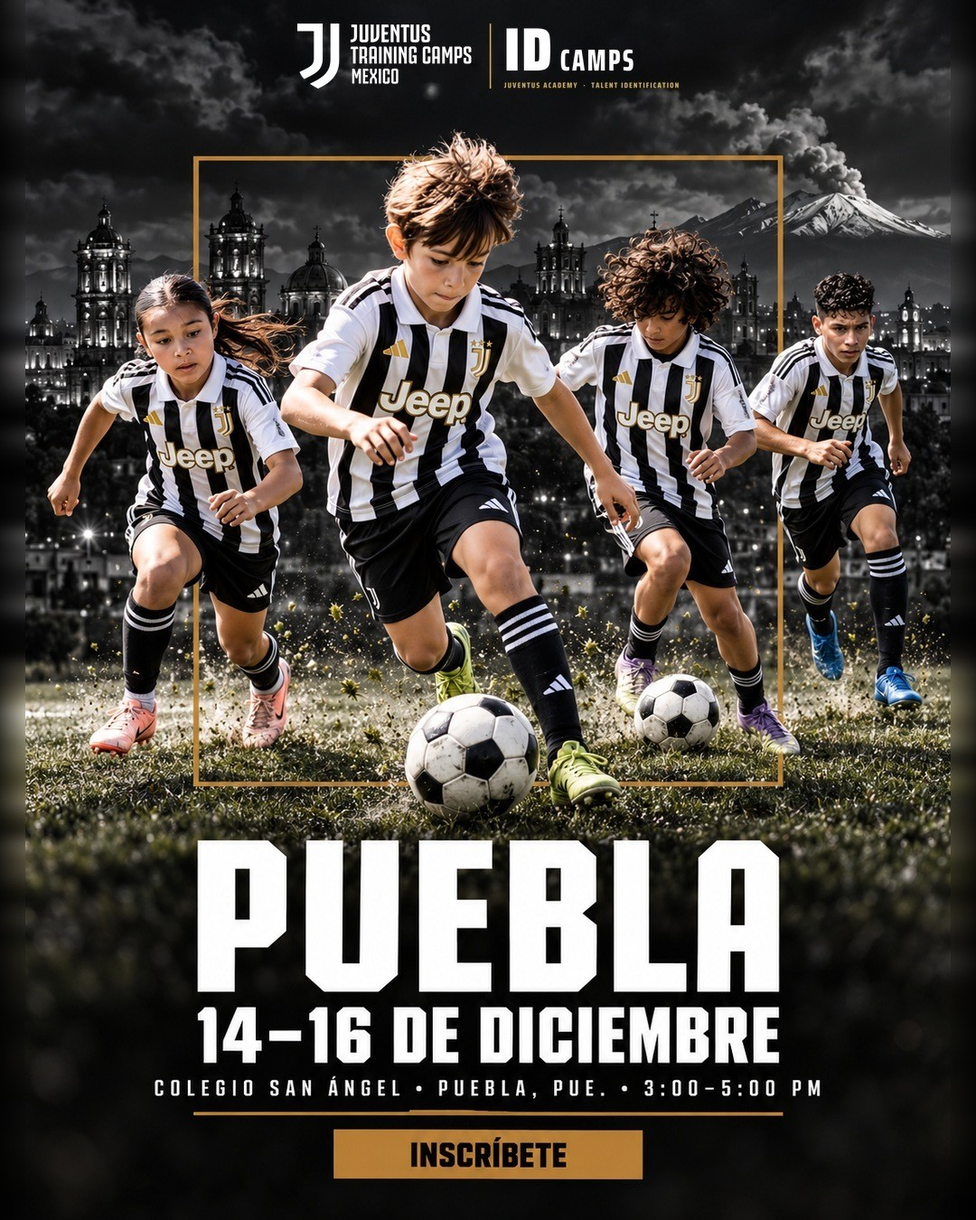
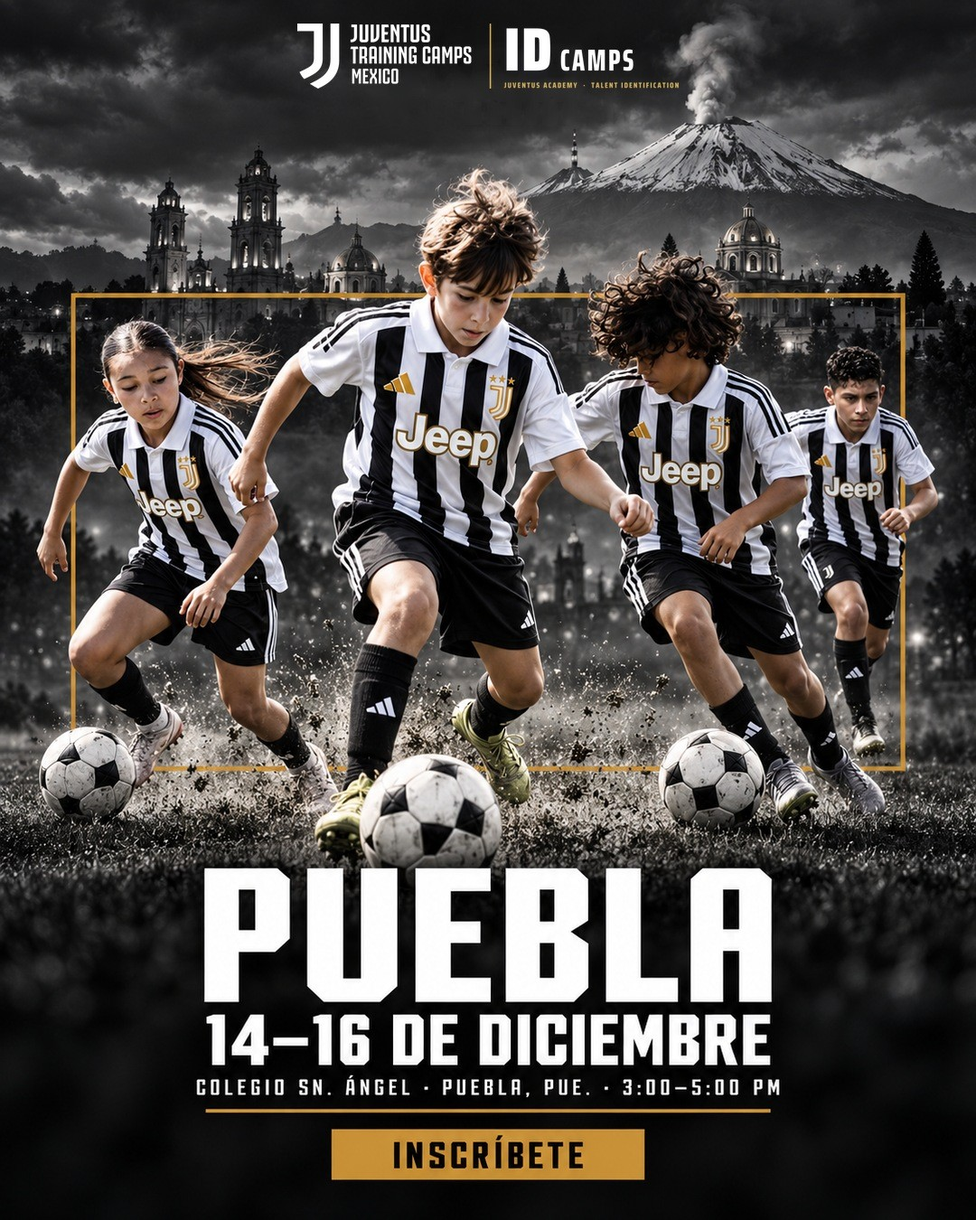
Pósters 1 de Puebla y Bayamón con la camiseta 2026-27; sede Colegio Sn. Ángel en piezas 3, 5 y 6 (notas de Alessandro 28-10)

diff --git a/index.html b/index.html
@@ -85,7 +85,7 @@ footer{margin-top:40px;color:var(--muted);font-size:14px;border-top:1px solid va
 <p class="lead">Puebla es el ID Camp nuevo de México (14 al 16 de diciembre) y Bayamón ya está listo para encenderse. Cada anuncio se muestra con su pieza y su texto, tal como se montaría en Meta. Los textos se pueden corregir aquí mismo y cada anuncio se aprueba con un clic.</p>
 <p class="como"><b>Piezas:</b> el mismo esquema de las demás sedes: Hero, video de Jesús, Coaches, Un día en el ID Camp, Así se vivió y Juventus Way. Niños en acción con la camiseta 2026-27. En Puebla se usan fotos reales de los camps de Juventus en México, con el volcán Popocatépetl y las cúpulas de Puebla de fondo; en Bayamón, fotos reales de Puerto Rico.</p>
 <p class="como"><b>Segmentación:</b> 25 millas alrededor de cada sede y padres de 30 a 55 años, como en las demás sedes. El detalle y el presupuesto están en la pestaña de cada sede.</p>
-<div class="confirmar"><b>Por confirmar en Puebla:</b> el nombre de la sede. En el sistema de inscripción aparece como "Colegio SN Angel"; en las piezas y los textos se puso <b>Colegio San Ángel</b>. Si el nombre correcto es otro, basta con dejar una nota en el anuncio 1 de Puebla.</div>
+<div class="confirmar"><b>Sede de Puebla:</b> <b>Colegio Sn. Ángel</b>, como lo corrigió Alessandro en los textos el 28-10. Ya está cambiado también en las piezas.</div>
 <div class="resumen">
   <div><b>Listos</b>6 anuncios por sede con su texto: video de Jesús, Hero, Coaches, Un día, Así se vivió y Juventus Way.</div>
   <div><b>Video</b>El video de Jesús de cada sede ya está editado (anuncio 2): se puede ver aquí mismo.</div>
@@ -94,11 +94,11 @@ footer{margin-top:40px;color:var(--muted);font-size:14px;border-top:1px solid va
 <p class="como"><b>Cómo aprobar:</b> si el texto está bien, botón <b>Aprobar</b>. Para corregir el texto o el título se escribe directamente sobre ellos; el botón pasa a <b>Aprobar con texto corregido</b> y se guarda la versión nueva. También se puede dejar una nota sin aprobar. Todo queda registrado.</p>
 <div class="tabs" role="group" aria-label="Sede"><button type="button" data-s="pue" aria-pressed="true">Puebla</button><button type="button" data-s="bay" aria-pressed="false">Bayamón</button></div>
 <section id="pue" class="sede" >
-  <div class="ficha"><h2>Puebla</h2><p>14–16 de diciembre · 3:00 – 5:00 PM · Colegio San Ángel, Puebla, Pue. · Niños y niñas de 6 a 17 años</p><p class="plan">Todo en español de México, con el mismo modelo que Monterrey.</p>
+  <div class="ficha"><h2>Puebla</h2><p>14–16 de diciembre · 3:00 – 5:00 PM · Colegio Sn. Ángel, Puebla, Pue. · Niños y niñas de 6 a 17 años</p><p class="plan">Todo en español de México, con el mismo modelo que Monterrey.</p>
   </div>
   <div class="segm"><b class="segm-t">Cómo se configura en Meta (igual que las demás sedes)</b>
     <dl>
-      <dt>Ubicación</dt><dd>Radio de <b>25 millas</b> alrededor del Colegio San Ángel (Tlaxcalancingo, San Andrés Cholula) (<a href="https://www.google.com/maps?q=Av.+Orión+Sur+1549,+Tlaxcalancingo,+Puebla" target="_blank" rel="noopener">ver el punto en el mapa</a>). Cubre la ciudad de Puebla, San Andrés Cholula y San Pedro Cholula.</dd>
+      <dt>Ubicación</dt><dd>Radio de <b>25 millas</b> alrededor del Colegio Sn. Ángel (Tlaxcalancingo, San Andrés Cholula) (<a href="https://www.google.com/maps?q=Av.+Orión+Sur+1549,+Tlaxcalancingo,+Puebla" target="_blank" rel="noopener">ver el punto en el mapa</a>). Cubre la ciudad de Puebla, San Andrés Cholula y San Pedro Cholula.</dd>
       <dt>A quién</dt><dd>Personas que viven en esa zona o que estuvieron allí hace poco.</dd>
       <dt>Edad</dt><dd>Padres de <b>30 a 55 años</b> como público sugerido. Meta puede mostrarlo a otras edades si encuentra familias interesadas (Advantage+), igual que en las otras sedes.</dd>
       <dt>Dónde se ve</dt><dd>Solo Facebook e Instagram: feed, historias y reels.</dd>
@@ -114,10 +114,10 @@ footer{margin-top:40px;color:var(--muted);font-size:14px;border-top:1px solid va
   <article class="ad" data-id="PUE_1">
   <header><span class="num">1</span><h3>HERO-POSTER (Imagen)</h3><span class="idi">Español</span><span class="estado" data-estado>Lista</span></header>
   <div class="cuerpo">
-    <div class="media"><img src="assets/PUE_1.jpg?v=1793211399" data-grande="assets/PUE_1_g.jpg?v=1793211399" class="ampliable" alt="HERO-POSTER (Imagen) · Puebla" title="Clic para verla en grande"></div>
+    <div class="media"><img src="assets/PUE_1.jpg?v=1793219997" data-grande="assets/PUE_1_g.jpg?v=1793219997" class="ampliable" alt="HERO-POSTER (Imagen) · Puebla" title="Clic para verla en grande"></div>
     <div class="copy">
       <div class="lbl">Texto principal <span class="hint">· se puede editar</span></div>
-      <div class="tp ed" contenteditable="true" spellcheck="true" data-campo="texto">ATENCIÓN PUEBLA 👉 El Juventus ID Camp llega a Puebla el 14, 15 y 16 de diciembre.<br><br>Son tres días entrenando con coaches de Juventus Academy que vienen desde Italia, con la misma metodología con la que Juventus forma a los jugadores de su academia en Italia: trabajo físico, técnico y táctico, adaptado a cada edad.<br><br>📅 14, 15 y 16 de diciembre · 3:00 – 5:00 PM<br>📍 Colegio San Ángel, Puebla, Pue.<br>⚽ Niños y niñas de 6 a 17 años<br><br>Toca Registrarte e inscríbelo en línea 👇</div>
+      <div class="tp ed" contenteditable="true" spellcheck="true" data-campo="texto">ATENCIÓN PUEBLA 👉 El Juventus ID Camp llega a Puebla el 14, 15 y 16 de diciembre.<br><br>Son tres días entrenando con coaches de Juventus Academy que vienen desde Italia, con la misma metodología con la que Juventus forma a los jugadores de su academia en Italia: trabajo físico, técnico y táctico, adaptado a cada edad.<br><br>📅 14, 15 y 16 de diciembre · 3:00 – 5:00 PM<br>📍 Colegio Sn. Ángel, Puebla, Pue.<br>⚽ Niños y niñas de 6 a 17 años<br><br>Toca Registrarte e inscríbelo en línea 👇</div>
       <div class="lbl">Título <span class="hint">· se puede editar</span></div>
       <div class="tit ed" contenteditable="true" spellcheck="true" data-campo="titulo">Juventus ID Camp · Puebla, 14–16 dic</div>
       <div class="lbl">Botón</div><p class="btn">Registrarte (Sign Up)</p>
@@ -136,7 +136,7 @@ footer{margin-top:40px;color:var(--muted);font-size:14px;border-top:1px solid va
     <div class="media"><video controls playsinline preload="none" poster="assets/PUE_2_poster.jpg?v=1793210265" style="width:100%;max-width:300px;border-radius:8px;display:block"><source src="assets/PUE_2_video.mp4?v=1793210265" type="video/mp4"></video></div>
     <div class="copy">
       <div class="lbl">Texto principal <span class="hint">· se puede editar</span></div>
-      <div class="tp ed" contenteditable="true" spellcheck="true" data-campo="texto">Puebla, Juventus Academy regresa a México 🤍🖤<br><br>El 14, 15 y 16 de diciembre, tu hijo o hija puede entrenar con la metodología de uno de los clubes más importantes del mundo y de la historia, con coaches de Juventus Academy desde Italia.<br><br>📅 14, 15 y 16 de diciembre · 3:00 – 5:00 PM<br>📍 Colegio San Ángel, Puebla, Pue.<br>⚽ Niños y niñas de 6 a 17 años<br><br>Toca Registrarte e inscríbelo en línea 👇<br>Fino alla fine, forza Juve! ⚪⚫</div>
+      <div class="tp ed" contenteditable="true" spellcheck="true" data-campo="texto">Puebla, Juventus Academy regresa a México 🤍🖤<br><br>El 14, 15 y 16 de diciembre, tu hijo o hija puede entrenar con la metodología de uno de los clubes más importantes del mundo y de la historia, con coaches de Juventus Academy desde Italia.<br><br>📅 14, 15 y 16 de diciembre · 3:00 – 5:00 PM<br>📍 Colegio Sn. Ángel, Puebla, Pue.<br>⚽ Niños y niñas de 6 a 17 años<br><br>Toca Registrarte e inscríbelo en línea 👇<br>Fino alla fine, forza Juve! ⚪⚫</div>
       <div class="lbl">Título <span class="hint">· se puede editar</span></div>
       <div class="tit ed" contenteditable="true" spellcheck="true" data-campo="titulo">Juventus regresa a Puebla · 14–16 dic</div>
       <div class="lbl">Botón</div><p class="btn">Registrarte (Sign Up)</p>
@@ -152,10 +152,10 @@ footer{margin-top:40px;color:var(--muted);font-size:14px;border-top:1px solid va
 </article><article class="ad" data-id="PUE_3">
   <header><span class="num">3</span><h3>STATIC COACHES (Imagen)</h3><span class="idi">Español</span><span class="estado" data-estado>Lista</span></header>
   <div class="cuerpo">
-    <div class="media"><img src="assets/PUE_3.jpg?v=1793211409" data-grande="assets/PUE_3_g.jpg?v=1793211409" class="ampliable" alt="STATIC COACHES (Imagen) · Puebla" title="Clic para verla en grande"></div>
+    <div class="media"><img src="assets/PUE_3.jpg?v=1793219881" data-grande="assets/PUE_3_g.jpg?v=1793219881" class="ampliable" alt="STATIC COACHES (Imagen) · Puebla" title="Clic para verla en grande"></div>
     <div class="copy">
       <div class="lbl">Texto principal <span class="hint">· se puede editar</span></div>
-      <div class="tp ed" contenteditable="true" spellcheck="true" data-campo="texto">Los coaches de Juventus Academy viajan desde Italia para entrenar a tu hijo o hija, sin salir de Puebla. 🇮🇹⚽<br><br>Durante tres días, cada sesión sigue la metodología Juventus y cada jugador recibe atención individual de los coaches.<br><br>📅 14, 15 y 16 de diciembre · 3:00 – 5:00 PM<br>📍 Colegio San Ángel, Puebla, Pue.<br>⚽ Niños y niñas de 6 a 17 años<br><br>Toca Registrarte e inscríbelo en línea 👇</div>
+      <div class="tp ed" contenteditable="true" spellcheck="true" data-campo="texto">Los coaches de Juventus Academy viajan desde Italia para entrenar a tu hijo o hija, sin salir de Puebla. 🇮🇹⚽<br><br>Durante tres días, cada sesión sigue la metodología Juventus y cada jugador recibe atención individual de los coaches.<br><br>📅 14, 15 y 16 de diciembre · 3:00 – 5:00 PM<br>📍 Colegio Sn. Ángel, Puebla, Pue.<br>⚽ Niños y niñas de 6 a 17 años<br><br>Toca Registrarte e inscríbelo en línea 👇</div>
       <div class="lbl">Título <span class="hint">· se puede editar</span></div>
       <div class="tit ed" contenteditable="true" spellcheck="true" data-campo="titulo">Coaches desde Italia · 14–16 dic</div>
       <div class="lbl">Botón</div><p class="btn">Registrarte (Sign Up)</p>
@@ -174,7 +174,7 @@ footer{margin-top:40px;color:var(--muted);font-size:14px;border-top:1px solid va
     <div class="media"><img src="assets/PUE_4.jpg?v=1793211464" data-grande="assets/PUE_4_g.jpg?v=1793211464" class="ampliable" alt="STATIC UN DÍA EN EL ID CAMP (Imagen) · Puebla" title="Clic para verla en grande"></div>
     <div class="copy">
       <div class="lbl">Texto principal <span class="hint">· se puede editar</span></div>
-      <div class="tp ed" contenteditable="true" spellcheck="true" data-campo="texto">Así es un día en el Juventus ID Camp ⚽<br><br>Calentamiento con coaches de Juventus Academy que vienen desde Italia, trabajo técnico, juego y cierre. Cada sesión sigue la metodología Juventus, en grupos pequeños por edad, y cada jugador recibe atención individual de los coaches.<br><br>📅 14, 15 y 16 de diciembre · 3:00 – 5:00 PM<br>📍 Colegio San Ángel, Puebla, Pue.<br>⚽ Niños y niñas de 6 a 17 años<br><br>No hace falta prueba previa. Toca Registrarte e inscríbelo en línea 👇</div>
+      <div class="tp ed" contenteditable="true" spellcheck="true" data-campo="texto">Así es un día en el Juventus ID Camp ⚽<br><br>Calentamiento con coaches de Juventus Academy que vienen desde Italia, trabajo técnico, juego y cierre. Cada sesión sigue la metodología Juventus, en grupos pequeños por edad, y cada jugador recibe atención individual de los coaches.<br><br>📅 14, 15 y 16 de diciembre · 3:00 – 5:00 PM<br>📍 Colegio Sn. Ángel, Puebla, Pue.<br>⚽ Niños y niñas de 6 a 17 años<br><br>No hace falta prueba previa. Toca Registrarte e inscríbelo en línea 👇</div>
       <div class="lbl">Título <span class="hint">· se puede editar</span></div>
       <div class="tit ed" contenteditable="true" spellcheck="true" data-campo="titulo">Un día en el ID Camp · 14–16 dic</div>
       <div class="lbl">Botón</div><p class="btn">Registrarte (Sign Up)</p>
@@ -190,10 +190,10 @@ footer{margin-top:40px;color:var(--muted);font-size:14px;border-top:1px solid va
 </article><article class="ad" data-id="PUE_5">
   <header><span class="num">5</span><h3>STATIC ASÍ SE VIVIÓ (Imagen)</h3><span class="idi">Español</span><span class="estado" data-estado>Lista</span></header>
   <div class="cuerpo">
-    <div class="media"><img src="assets/PUE_5.jpg?v=1793211409" data-grande="assets/PUE_5_g.jpg?v=1793211409" class="ampliable" alt="STATIC ASÍ SE VIVIÓ (Imagen) · Puebla" title="Clic para verla en grande"></div>
+    <div class="media"><img src="assets/PUE_5.jpg?v=1793219881" data-grande="assets/PUE_5_g.jpg?v=1793219881" class="ampliable" alt="STATIC ASÍ SE VIVIÓ (Imagen) · Puebla" title="Clic para verla en grande"></div>
     <div class="copy">
       <div class="lbl">Texto principal <span class="hint">· se puede editar</span></div>
-      <div class="tp ed" contenteditable="true" spellcheck="true" data-campo="texto">Así se vivió Juventus en México este verano 🇮🇹⚽<br><br>Niños y niñas entrenando con coaches de Juventus y la metodología del club. En diciembre llega el Juventus ID Camp a Puebla, y le toca a tu hijo o hija.<br><br>📅 14, 15 y 16 de diciembre · 3:00 – 5:00 PM<br>📍 Colegio San Ángel, Puebla, Pue.<br>⚽ Niños y niñas de 6 a 17 años<br><br>Toca Registrarte e inscríbelo en línea 👇</div>
+      <div class="tp ed" contenteditable="true" spellcheck="true" data-campo="texto">Así se vivió Juventus en México este verano 🇮🇹⚽<br><br>Niños y niñas entrenando con coaches de Juventus y la metodología del club. En diciembre llega el Juventus ID Camp a Puebla, y le toca a tu hijo o hija.<br><br>📅 14, 15 y 16 de diciembre · 3:00 – 5:00 PM<br>📍 Colegio Sn. Ángel, Puebla, Pue.<br>⚽ Niños y niñas de 6 a 17 años<br><br>Toca Registrarte e inscríbelo en línea 👇</div>
       <div class="lbl">Título <span class="hint">· se puede editar</span></div>
       <div class="tit ed" contenteditable="true" spellcheck="true" data-campo="titulo">Llega el ID Camp a Puebla · 14–16 dic</div>
       <div class="lbl">Botón</div><p class="btn">Registrarte (Sign Up)</p>
@@ -209,10 +209,10 @@ footer{margin-top:40px;color:var(--muted);font-size:14px;border-top:1px solid va
 </article><article class="ad" data-id="PUE_6">
   <header><span class="num">6</span><h3>STATIC JUVENTUS WAY (Imagen)</h3><span class="idi">Español</span><span class="estado" data-estado>Lista</span></header>
   <div class="cuerpo">
-    <div class="media"><img src="assets/PUE_6.jpg?v=1793211409" data-grande="assets/PUE_6_g.jpg?v=1793211409" class="ampliable" alt="STATIC JUVENTUS WAY (Imagen) · Puebla" title="Clic para verla en grande"></div>
+    <div class="media"><img src="assets/PUE_6.jpg?v=1793219881" data-grande="assets/PUE_6_g.jpg?v=1793219881" class="ampliable" alt="STATIC JUVENTUS WAY (Imagen) · Puebla" title="Clic para verla en grande"></div>
     <div class="copy">
       <div class="lbl">Texto principal <span class="hint">· se puede editar</span></div>
-      <div class="tp ed" contenteditable="true" spellcheck="true" data-campo="texto">Físico. Técnico. Táctico. ⚪⚫<br><br>Así se entrena al estilo Juventus, y este diciembre tu hijo o hija lo vive en Puebla, con coaches de Juventus Academy desde Italia. Tres días, las tres partes en cada sesión, adaptadas a cada edad.<br><br>📅 14, 15 y 16 de diciembre · 3:00 – 5:00 PM<br>📍 Colegio San Ángel, Puebla, Pue.<br>⚽ Niños y niñas de 6 a 17 años<br><br>Toca Registrarte e inscríbelo en línea 👇</div>
+      <div class="tp ed" contenteditable="true" spellcheck="true" data-campo="texto">Físico. Técnico. Táctico. ⚪⚫<br><br>Así se entrena al estilo Juventus, y este diciembre tu hijo o hija lo vive en Puebla, con coaches de Juventus Academy desde Italia. Tres días, las tres partes en cada sesión, adaptadas a cada edad.<br><br>📅 14, 15 y 16 de diciembre · 3:00 – 5:00 PM<br>📍 Colegio Sn. Ángel, Puebla, Pue.<br>⚽ Niños y niñas de 6 a 17 años<br><br>Toca Registrarte e inscríbelo en línea 👇</div>
       <div class="lbl">Título <span class="hint">· se puede editar</span></div>
       <div class="tit ed" contenteditable="true" spellcheck="true" data-campo="titulo">Estilo Juventus · Puebla, 14–16 dic</div>
       <div class="lbl">Botón</div><p class="btn">Registrarte (Sign Up)</p>
@@ -247,7 +247,7 @@ footer{margin-top:40px;color:var(--muted);font-size:14px;border-top:1px solid va
   <article class="ad" data-id="BAY_1">
   <header><span class="num">1</span><h3>HERO-POSTER (Imagen)</h3><span class="idi">Español</span><span class="estado" data-estado>Lista</span></header>
   <div class="cuerpo">
-    <div class="media"><img src="assets/BAY_1.jpg?v=1793211501" data-grande="assets/BAY_1_g.jpg?v=1793211501" class="ampliable" alt="HERO-POSTER (Imagen) · Bayamón" title="Clic para verla en grande"></div>
+    <div class="media"><img src="assets/BAY_1.jpg?v=1793220138" data-grande="assets/BAY_1_g.jpg?v=1793220138" class="ampliable" alt="HERO-POSTER (Imagen) · Bayamón" title="Clic para verla en grande"></div>
     <div class="copy">
       <div class="lbl">Texto principal <span class="hint">· se puede editar</span></div>
       <div class="tp ed" contenteditable="true" spellcheck="true" data-campo="texto">ATENCIÓN BAYAMÓN 👉 El Juventus ID Camp llega a Bayamón el 21 y 22 de diciembre.<br><br>Son dos días entrenando con coaches de Juventus Academy que vienen desde Italia, con la misma metodología con la que Juventus forma a los jugadores de su academia en Italia: trabajo físico, técnico y táctico, adaptado a cada edad.<br><br>📅 21 y 22 de diciembre · 5:00 PM – 8:30 PM<br>📍 Bayamón Soccer Complex, Bayamón, PR<br>⚽ Niños y niñas de 6 a 16 años<br><br>Toca Registrarte e inscríbelo en línea 👇</div>
@@ -363,7 +363,7 @@ footer{margin-top:40px;color:var(--muted);font-size:14px;border-top:1px solid va
 </div>
 <script>
 const CFG={"accion": "https://docs.google.com/forms/d/e/1FAIpQLSeGUY8Cv9Ea08X9HkdznY9pzVoUc4Gj-GdymsVTFP86wbE5sw/formResponse", "entry": {"pieza": 333677581, "cuenta": 724853821, "autor": 299801437, "comentario": 1175231019, "copy_corregido": 1649408514, "copy_original": 1637675582, "enviado": 909195940, "tipo": 1605073129, "zona": 1831673234, "fila": 1327618412}, "cuenta": "idcamps_puebay"};
-const ORIG={"PUE_1": {"texto": "ATENCIÓN PUEBLA 👉 El Juventus ID Camp llega a Puebla el 14, 15 y 16 de diciembre.\n\nSon tres días entrenando con coaches de Juventus Academy que vienen desde Italia, con la misma metodología con la que Juventus forma a los jugadores de su academia en Italia: trabajo físico, técnico y táctico, adaptado a cada edad.\n\n📅 14, 15 y 16 de diciembre · 3:00 – 5:00 PM\n📍 Colegio San Ángel, Puebla, Pue.\n⚽ Niños y niñas de 6 a 17 años\n\nToca Registrarte e inscríbelo en línea 👇", "titulo": "Juventus ID Camp · Puebla, 14–16 dic", "nombre": "HERO-POSTER (Imagen)"}, "PUE_2": {"texto": "Puebla, Juventus Academy regresa a México 🤍🖤\n\nEl 14, 15 y 16 de diciembre, tu hijo o hija puede entrenar con la metodología de uno de los clubes más importantes del mundo y de la historia, con coaches de Juventus Academy desde Italia.\n\n📅 14, 15 y 16 de diciembre · 3:00 – 5:00 PM\n📍 Colegio San Ángel, Puebla, Pue.\n⚽ Niños y niñas de 6 a 17 años\n\nToca Registrarte e inscríbelo en línea 👇\nFino alla fine, forza Juve! ⚪⚫", "titulo": "Juventus regresa a Puebla · 14–16 dic", "nombre": "VIDEO JESÚS (Video)"}, "PUE_3": {"texto": "Los coaches de Juventus Academy viajan desde Italia para entrenar a tu hijo o hija, sin salir de Puebla. 🇮🇹⚽\n\nDurante tres días, cada sesión sigue la metodología Juventus y cada jugador recibe atención individual de los coaches.\n\n📅 14, 15 y 16 de diciembre · 3:00 – 5:00 PM\n📍 Colegio San Ángel, Puebla, Pue.\n⚽ Niños y niñas de 6 a 17 años\n\nToca Registrarte e inscríbelo en línea 👇", "titulo": "Coaches desde Italia · 14–16 dic", "nombre": "STATIC COACHES (Imagen)"}, "PUE_4": {"texto": "Así es un día en el Juventus ID Camp ⚽\n\nCalentamiento con coaches de Juventus Academy que vienen desde Italia, trabajo técnico, juego y cierre. Cada sesión sigue la metodología Juventus, en grupos pequeños por edad, y cada jugador recibe atención individual de los coaches.\n\n📅 14, 15 y 16 de diciembre · 3:00 – 5:00 PM\n📍 Colegio San Ángel, Puebla, Pue.\n⚽ Niños y niñas de 6 a 17 años\n\nNo hace falta prueba previa. Toca Registrarte e inscríbelo en línea 👇", "titulo": "Un día en el ID Camp · 14–16 dic", "nombre": "STATIC UN DÍA EN EL ID CAMP (Imagen)"}, "PUE_5": {"texto": "Así se vivió Juventus en México este verano 🇮🇹⚽\n\nNiños y niñas entrenando con coaches de Juventus y la metodología del club. En diciembre llega el Juventus ID Camp a Puebla, y le toca a tu hijo o hija.\n\n📅 14, 15 y 16 de diciembre · 3:00 – 5:00 PM\n📍 Colegio San Ángel, Puebla, Pue.\n⚽ Niños y niñas de 6 a 17 años\n\nToca Registrarte e inscríbelo en línea 👇", "titulo": "Llega el ID Camp a Puebla · 14–16 dic", "nombre": "STATIC ASÍ SE VIVIÓ (Imagen)"}, "PUE_6": {"texto": "Físico. Técnico. Táctico. ⚪⚫\n\nAsí se entrena al estilo Juventus, y este diciembre tu hijo o hija lo vive en Puebla, con coaches de Juventus Academy desde Italia. Tres días, las tres partes en cada sesión, adaptadas a cada edad.\n\n📅 14, 15 y 16 de diciembre · 3:00 – 5:00 PM\n📍 Colegio San Ángel, Puebla, Pue.\n⚽ Niños y niñas de 6 a 17 años\n\nToca Registrarte e inscríbelo en línea 👇", "titulo": "Estilo Juventus · Puebla, 14–16 dic", "nombre": "STATIC JUVENTUS WAY (Imagen)"}, "BAY_1": {"texto": "ATENCIÓN BAYAMÓN 👉 El Juventus ID Camp llega a Bayamón el 21 y 22 de diciembre.\n\nSon dos días entrenando con coaches de Juventus Academy que vienen desde Italia, con la misma metodología con la que Juventus forma a los jugadores de su academia en Italia: trabajo físico, técnico y táctico, adaptado a cada edad.\n\n📅 21 y 22 de diciembre · 5:00 PM – 8:30 PM\n📍 Bayamón Soccer Complex, Bayamón, PR\n⚽ Niños y niñas de 6 a 16 años\n\nToca Registrarte e inscríbelo en línea 👇", "titulo": "Juventus ID Camp · Bayamón, 21–22 dic", "nombre": "HERO-POSTER (Imagen)"}, "BAY_2": {"texto": "Bayamón, Juventus regresa a Puerto Rico 🤍🖤\n\nEl 21 y 22 de diciembre, Juventus Academy realiza un ID Camp en Bayamón: dos días para entrenar con coaches de Juventus Academy desde Italia, con la historia, el legado y el compromiso que hacen diferente a Juventus, dentro y fuera del campo.\n\n📅 21 y 22 de diciembre · 5:00 PM – 8:30 PM\n📍 Bayamón Soccer Complex, Bayamón, PR\n⚽ Niños y niñas de 6 a 16 años\n\nToca Registrarte e inscríbelo en línea 👇\nFino alla fine, forza Juve! ⚪⚫", "titulo": "Juventus regresa a Puerto Rico · 21–22 dic", "nombre": "VIDEO JESÚS (Video)"}, "BAY_3": {"texto": "Juventus Academy coaches are flying in from Italy to train your player, without leaving Bayamón. 🇮🇹⚽\n\nFor two days, every session follows the Juventus methodology, and every player gets individual attention from the coaches.\n\n📅 December 21–22 · 5:00 PM – 8:30 PM\n📍 Bayamón Soccer Complex, Bayamón, PR\n⚽ Boys and girls, ages 6–16\n\nTap Sign Up to register your player 👇", "titulo": "Coaches from Italy · Bayamón, Dec 21–22", "nombre": "STATIC COACHES (Imagen)"}, "BAY_4": {"texto": "Así es un día en el Juventus ID Camp ⚽\n\nCalentamiento con coaches de Juventus Academy que vienen desde Italia, trabajo técnico, juego y cierre. Cada sesión sigue la metodología Juventus, en grupos pequeños por edad, y cada jugador recibe atención individual de los coaches.\n\n📅 21 y 22 de diciembre · 5:00 PM – 8:30 PM\n📍 Bayamón Soccer Complex, Bayamón, PR\n⚽ Niños y niñas de 6 a 16 años\n\nNo hace falta prueba previa. Toca Registrarte e inscríbelo en línea 👇", "titulo": "Un día en el ID Camp · 21–22 dic", "nombre": "STATIC UN DÍA EN EL ID CAMP (Imagen)"}, "BAY_5": {"texto": "Así se vivió Juventus en Puerto Rico 🇮🇹⚽\n\nNiños y niñas entrenando con coaches de Juventus, aprendiendo y disfrutando cada sesión. Ahora el Juventus ID Camp vuelve a la isla, esta vez a Bayamón.\n\n📅 21 y 22 de diciembre · 5:00 PM – 8:30 PM\n📍 Bayamón Soccer Complex, Bayamón, PR\n⚽ Niños y niñas de 6 a 16 años\n\nToca Registrarte e inscríbelo en línea 👇", "titulo": "Ahora llega a Bayamón · 21–22 dic", "nombre": "STATIC ASÍ SE VIVIÓ (Imagen)"}, "BAY_6": {"texto": "Physical. Technical. Tactical. ⚪⚫\n\nThat’s the Juventus way, and this December your player trains it in Bayamón, with Juventus Academy coaches from Italy. Two days, the three parts in every session, adapted to every age group.\n\n📅 December 21–22 · 5:00 PM – 8:30 PM\n📍 Bayamón Soccer Complex, Bayamón, PR\n⚽ Boys and girls, ages 6–16\n\nTap Sign Up to register your player 👇", "titulo": "The Juventus Way · Bayamón, Dec 21–22", "nombre": "STATIC JUVENTUS WAY (Imagen)"}};
+const ORIG={"PUE_1": {"texto": "ATENCIÓN PUEBLA 👉 El Juventus ID Camp llega a Puebla el 14, 15 y 16 de diciembre.\n\nSon tres días entrenando con coaches de Juventus Academy que vienen desde Italia, con la misma metodología con la que Juventus forma a los jugadores de su academia en Italia: trabajo físico, técnico y táctico, adaptado a cada edad.\n\n📅 14, 15 y 16 de diciembre · 3:00 – 5:00 PM\n📍 Colegio Sn. Ángel, Puebla, Pue.\n⚽ Niños y niñas de 6 a 17 años\n\nToca Registrarte e inscríbelo en línea 👇", "titulo": "Juventus ID Camp · Puebla, 14–16 dic", "nombre": "HERO-POSTER (Imagen)"}, "PUE_2": {"texto": "Puebla, Juventus Academy regresa a México 🤍🖤\n\nEl 14, 15 y 16 de diciembre, tu hijo o hija puede entrenar con la metodología de uno de los clubes más importantes del mundo y de la historia, con coaches de Juventus Academy desde Italia.\n\n📅 14, 15 y 16 de diciembre · 3:00 – 5:00 PM\n📍 Colegio Sn. Ángel, Puebla, Pue.\n⚽ Niños y niñas de 6 a 17 años\n\nToca Registrarte e inscríbelo en línea 👇\nFino alla fine, forza Juve! ⚪⚫", "titulo": "Juventus regresa a Puebla · 14–16 dic", "nombre": "VIDEO JESÚS (Video)"}, "PUE_3": {"texto": "Los coaches de Juventus Academy viajan desde Italia para entrenar a tu hijo o hija, sin salir de Puebla. 🇮🇹⚽\n\nDurante tres días, cada sesión sigue la metodología Juventus y cada jugador recibe atención individual de los coaches.\n\n📅 14, 15 y 16 de diciembre · 3:00 – 5:00 PM\n📍 Colegio Sn. Ángel, Puebla, Pue.\n⚽ Niños y niñas de 6 a 17 años\n\nToca Registrarte e inscríbelo en línea 👇", "titulo": "Coaches desde Italia · 14–16 dic", "nombre": "STATIC COACHES (Imagen)"}, "PUE_4": {"texto": "Así es un día en el Juventus ID Camp ⚽\n\nCalentamiento con coaches de Juventus Academy que vienen desde Italia, trabajo técnico, juego y cierre. Cada sesión sigue la metodología Juventus, en grupos pequeños por edad, y cada jugador recibe atención individual de los coaches.\n\n📅 14, 15 y 16 de diciembre · 3:00 – 5:00 PM\n📍 Colegio Sn. Ángel, Puebla, Pue.\n⚽ Niños y niñas de 6 a 17 años\n\nNo hace falta prueba previa. Toca Registrarte e inscríbelo en línea 👇", "titulo": "Un día en el ID Camp · 14–16 dic", "nombre": "STATIC UN DÍA EN EL ID CAMP (Imagen)"}, "PUE_5": {"texto": "Así se vivió Juventus en México este verano 🇮🇹⚽\n\nNiños y niñas entrenando con coaches de Juventus y la metodología del club. En diciembre llega el Juventus ID Camp a Puebla, y le toca a tu hijo o hija.\n\n📅 14, 15 y 16 de diciembre · 3:00 – 5:00 PM\n📍 Colegio Sn. Ángel, Puebla, Pue.\n⚽ Niños y niñas de 6 a 17 años\n\nToca Registrarte e inscríbelo en línea 👇", "titulo": "Llega el ID Camp a Puebla · 14–16 dic", "nombre": "STATIC ASÍ SE VIVIÓ (Imagen)"}, "PUE_6": {"texto": "Físico. Técnico. Táctico. ⚪⚫\n\nAsí se entrena al estilo Juventus, y este diciembre tu hijo o hija lo vive en Puebla, con coaches de Juventus Academy desde Italia. Tres días, las tres partes en cada sesión, adaptadas a cada edad.\n\n📅 14, 15 y 16 de diciembre · 3:00 – 5:00 PM\n📍 Colegio Sn. Ángel, Puebla, Pue.\n⚽ Niños y niñas de 6 a 17 años\n\nToca Registrarte e inscríbelo en línea 👇", "titulo": "Estilo Juventus · Puebla, 14–16 dic", "nombre": "STATIC JUVENTUS WAY (Imagen)"}, "BAY_1": {"texto": "ATENCIÓN BAYAMÓN 👉 El Juventus ID Camp llega a Bayamón el 21 y 22 de diciembre.\n\nSon dos días entrenando con coaches de Juventus Academy que vienen desde Italia, con la misma metodología con la que Juventus forma a los jugadores de su academia en Italia: trabajo físico, técnico y táctico, adaptado a cada edad.\n\n📅 21 y 22 de diciembre · 5:00 PM – 8:30 PM\n📍 Bayamón Soccer Complex, Bayamón, PR\n⚽ Niños y niñas de 6 a 16 años\n\nToca Registrarte e inscríbelo en línea 👇", "titulo": "Juventus ID Camp · Bayamón, 21–22 dic", "nombre": "HERO-POSTER (Imagen)"}, "BAY_2": {"texto": "Bayamón, Juventus regresa a Puerto Rico 🤍🖤\n\nEl 21 y 22 de diciembre, Juventus Academy realiza un ID Camp en Bayamón: dos días para entrenar con coaches de Juventus Academy desde Italia, con la historia, el legado y el compromiso que hacen diferente a Juventus, dentro y fuera del campo.\n\n📅 21 y 22 de diciembre · 5:00 PM – 8:30 PM\n📍 Bayamón Soccer Complex, Bayamón, PR\n⚽ Niños y niñas de 6 a 16 años\n\nToca Registrarte e inscríbelo en línea 👇\nFino alla fine, forza Juve! ⚪⚫", "titulo": "Juventus regresa a Puerto Rico · 21–22 dic", "nombre": "VIDEO JESÚS (Video)"}, "BAY_3": {"texto": "Juventus Academy coaches are flying in from Italy to train your player, without leaving Bayamón. 🇮🇹⚽\n\nFor two days, every session follows the Juventus methodology, and every player gets individual attention from the coaches.\n\n📅 December 21–22 · 5:00 PM – 8:30 PM\n📍 Bayamón Soccer Complex, Bayamón, PR\n⚽ Boys and girls, ages 6–16\n\nTap Sign Up to register your player 👇", "titulo": "Coaches from Italy · Bayamón, Dec 21–22", "nombre": "STATIC COACHES (Imagen)"}, "BAY_4": {"texto": "Así es un día en el Juventus ID Camp ⚽\n\nCalentamiento con coaches de Juventus Academy que vienen desde Italia, trabajo técnico, juego y cierre. Cada sesión sigue la metodología Juventus, en grupos pequeños por edad, y cada jugador recibe atención individual de los coaches.\n\n📅 21 y 22 de diciembre · 5:00 PM – 8:30 PM\n📍 Bayamón Soccer Complex, Bayamón, PR\n⚽ Niños y niñas de 6 a 16 años\n\nNo hace falta prueba previa. Toca Registrarte e inscríbelo en línea 👇", "titulo": "Un día en el ID Camp · 21–22 dic", "nombre": "STATIC UN DÍA EN EL ID CAMP (Imagen)"}, "BAY_5": {"texto": "Así se vivió Juventus en Puerto Rico 🇮🇹⚽\n\nNiños y niñas entrenando con coaches de Juventus, aprendiendo y disfrutando cada sesión. Ahora el Juventus ID Camp vuelve a la isla, esta vez a Bayamón.\n\n📅 21 y 22 de diciembre · 5:00 PM – 8:30 PM\n📍 Bayamón Soccer Complex, Bayamón, PR\n⚽ Niños y niñas de 6 a 16 años\n\nToca Registrarte e inscríbelo en línea 👇", "titulo": "Ahora llega a Bayamón · 21–22 dic", "nombre": "STATIC ASÍ SE VIVIÓ (Imagen)"}, "BAY_6": {"texto": "Physical. Technical. Tactical. ⚪⚫\n\nThat’s the Juventus way, and this December your player trains it in Bayamón, with Juventus Academy coaches from Italy. Two days, the three parts in every session, adapted to every age group.\n\n📅 December 21–22 · 5:00 PM – 8:30 PM\n📍 Bayamón Soccer Complex, Bayamón, PR\n⚽ Boys and girls, ages 6–16\n\nTap Sign Up to register your player 👇", "titulo": "The Juventus Way · Bayamón, Dec 21–22", "nombre": "STATIC JUVENTUS WAY (Imagen)"}};
 
 const LSK='idc_puebay_v1';
 const LS={get(){try{return JSON.parse(localStorage.getItem(LSK)||'{}')}catch(e){return {}}},set(v){try{localStorage.setItem(LSK,JSON.stringify(v))}catch(e){}}};
